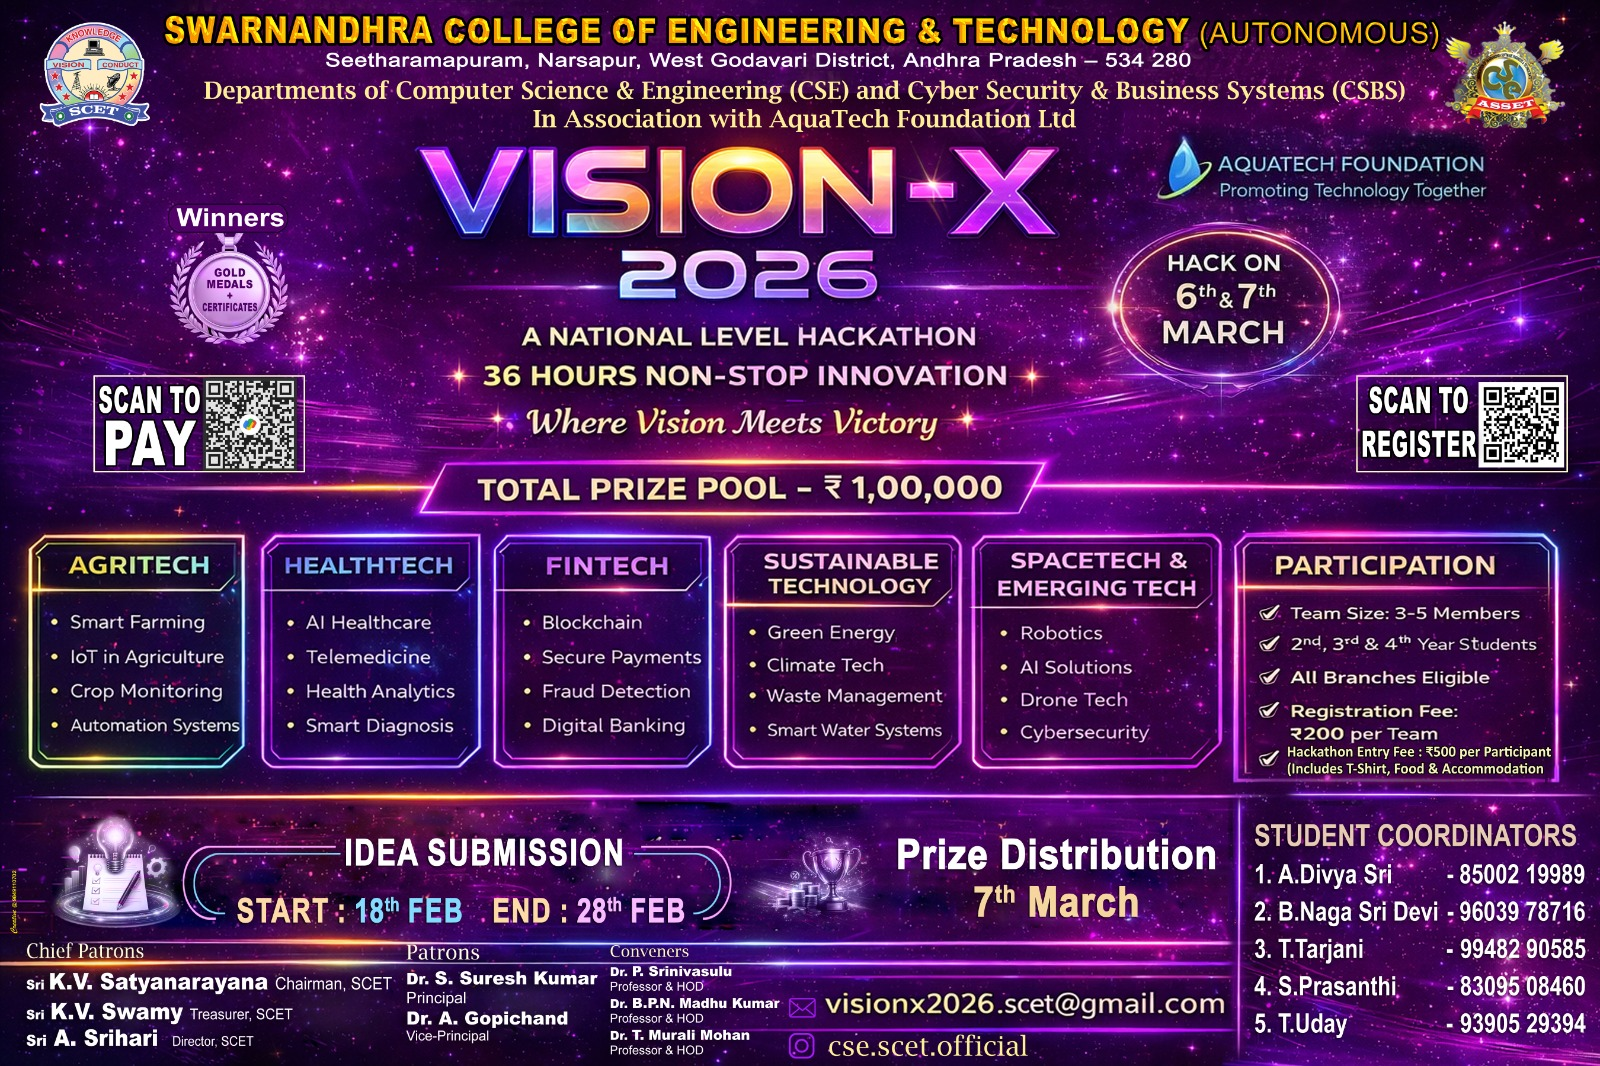
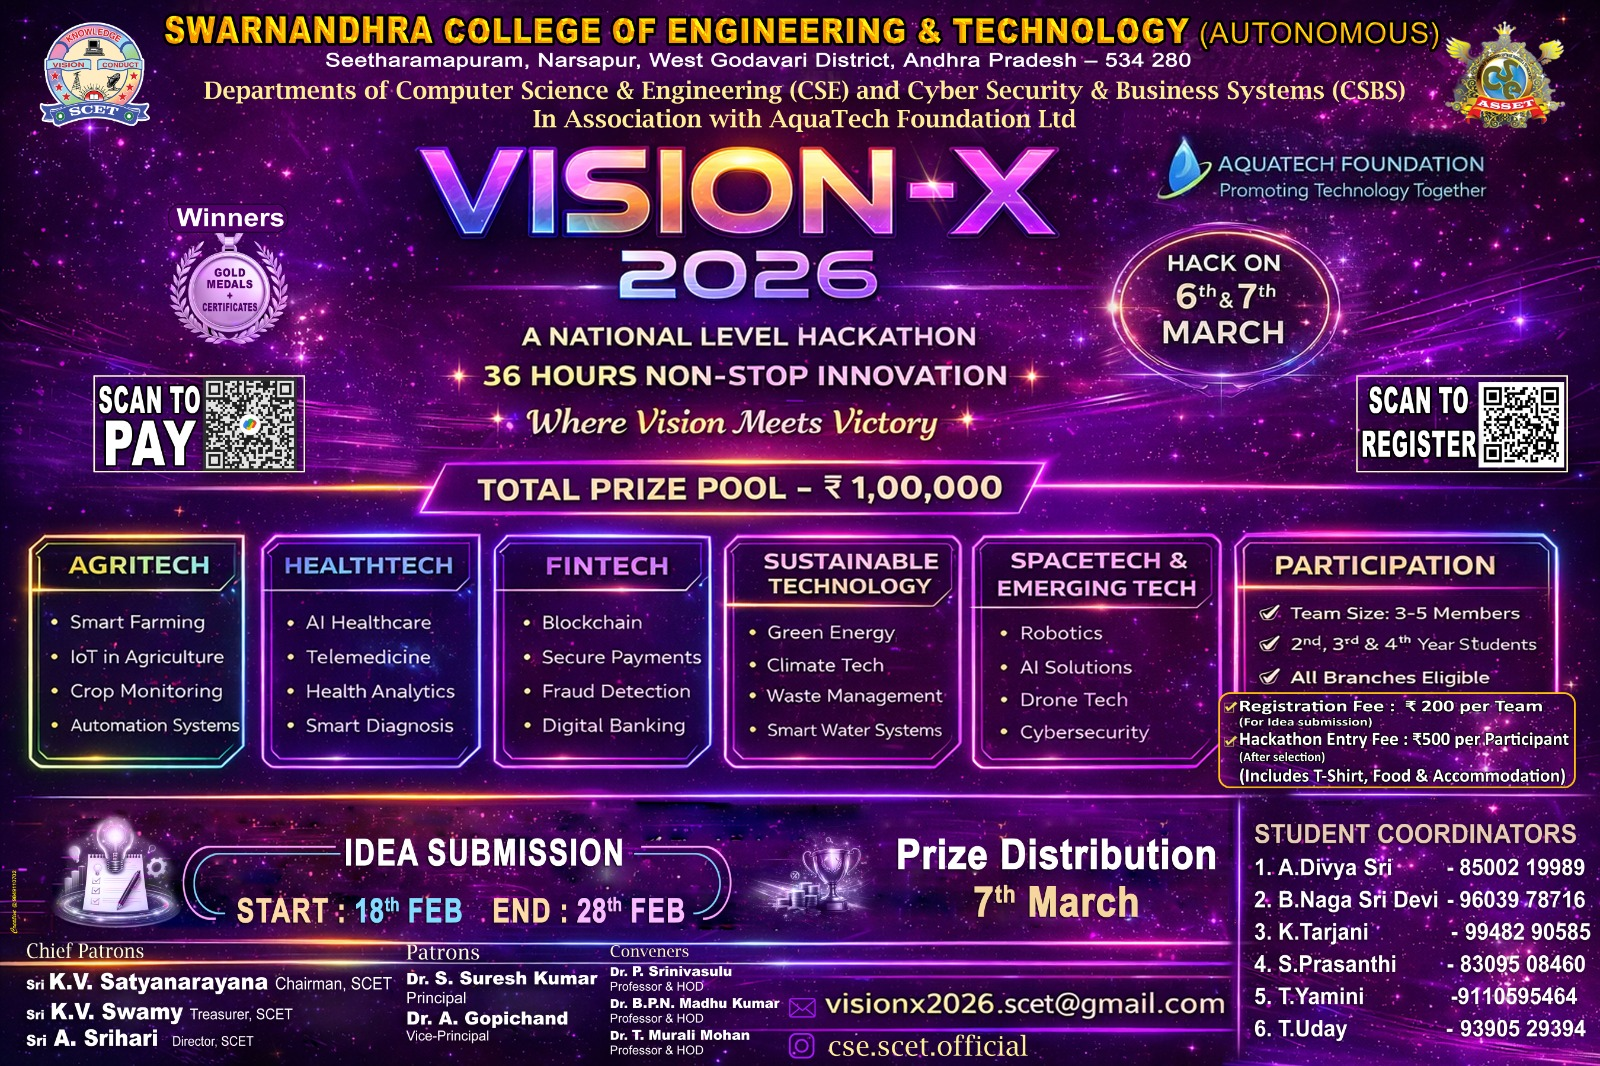
updated Chief patrons and added student co ordinator and updated brochore

Changed region(s): [[0.7812, 0.7739, 1.0, 0.9906], [0.75, 0.6501, 1.0, 0.743]]

diff --git a/src/components/ChiefGuestsSection.tsx b/src/components/ChiefGuestsSection.tsx
@@ -6,12 +6,13 @@ import asrihari from "./guests/a-srihari.jpg";
 import sureshKumar from "./guests/suresh-kumar.jpg";
 import aGopichand from "./guests/a-gopichand.jpg";
 import pSrinivasulu from "./guests/p-srinivasulu.jpg";
+import minish from "./guests/minish.jpg";
 
-const chiefGuest = {
-  name: "Prof. CSRK Prasad",
-  title: "Hon'ble Vice Chancellor, JNTUK, Kakinada",
-  image: profCsrkPrasad,
-};
+// const chiefGuest = {
+//   name: "Prof. CSRK Prasad",
+//   title: "Hon'ble Vice Chancellor, JNTUK, Kakinada",
+//   image: profCsrkPrasad,
+// };
 
 const chiefPatrons = [
   {
@@ -28,6 +29,12 @@ const chiefPatrons = [
     name: "Sri A Srihari",
     role: "Director, SCET",
     image: asrihari,
+  },
+  {
+    name: "Minish Kumar Mucharla",
+    role: "Aqua Tech Foundation",
+    image: minish,
+    topLabel: "Aqua Tech Foundation",
   },
 ];
 
@@ -51,16 +58,27 @@ const PersonCard = ({
   image,
   glow = "neon-border",
   size = "w-24 h-24",
+  topLabel,
 }: {
   name: string;
   role: string;
   image: string;
   glow?: string;
   size?: string;
+  topLabel?: string;
 }) => (
   <div className="flex flex-col items-center max-w-[200px]">
+    {/* ✅ Label ABOVE image (normal flow, no absolute) */}
+    <div className="h-5 mb-2 flex items-center justify-center">
+      {topLabel && (
+        <p className="text-[11px] font-semibold text-cyan-400 text-center">
+          {topLabel}
+        </p>
+      )}
+    </div>
     <div
       className={`${size} rounded-full ${glow} bg-card/60 overflow-hidden mb-3`}
+      // className={`${size} relative rounded-full ${glow} bg-card/60 overflow-hidden mb-3`}
     >
       <img
         src={image}
@@ -85,11 +103,11 @@ const ChiefGuestsSection = () => (
         viewport={{ once: true }}
         className="text-3xl md:text-4xl font-display font-bold gradient-text mb-12"
       >
-        Chief Guest
+        Guests
       </motion.h2>
 
       {/* Chief Guest */}
-      <motion.div
+      {/* <motion.div
         initial={{ opacity: 0, scale: 0.9 }}
         whileInView={{ opacity: 1, scale: 1 }}
         viewport={{ once: true }}
@@ -107,7 +125,7 @@ const ChiefGuestsSection = () => (
             size="w-32 h-32"
           />
         </div>
-      </motion.div>
+      </motion.div> */}
 
       {/* Patrons */}
       <motion.div
@@ -128,6 +146,7 @@ const ChiefGuestsSection = () => (
               role={p.role}
               image={p.image}
               glow="neon-border-purple"
+              topLabel={p.topLabel}
             />
           ))}
         </div>

diff --git a/src/components/CoordinatorsSection.tsx b/src/components/CoordinatorsSection.tsx
@@ -6,6 +6,7 @@ const studentCoordinators = [
   { name: "B. Naga Sri Devi", phone: "9603978716" },
   { name: "S. Prasanthi", phone: "8309508460" },
   { name: "T. Uday", phone: "9390529394" },
+  { name: "T. Yamini", phone: "9110595464" },
   { name: "K. Tarjani", phone: "9948290585" },
 ];
 
@@ -108,7 +109,7 @@ const CoordinatorsSection = () => (
           Student Coordinators
         </p>
 
-        <div className="grid grid-cols-2 sm:grid-cols-3 md:grid-cols-5 gap-6">
+        <div className="grid grid-cols-2 sm:grid-cols-3 md:grid-cols-6 gap-6">
           {studentCoordinators.map((c, i) => (
             <motion.div
               key={c.name}

diff --git a/src/components/RegistrationSection.tsx b/src/components/RegistrationSection.tsx
@@ -39,7 +39,7 @@ const RegistrationSection = () => (
             Hackathon Entry
           </p>
           <p className="text-2xl font-display font-bold text-secondary text-glow-purple">
-            ₹300{" "}
+            ₹500{" "}
             <span className="text-sm font-heading text-muted-foreground font-normal">
               per head
             </span>

diff --git a/index.html b/index.html
@@ -47,7 +47,7 @@
     <!-- Replace with your banner -->
 
     <!-- Favicon (Optional but Recommended) -->
-    <link rel="icon" type="image/png" href="./public/scet-logo.jpg" />
+    <link rel="icon" type="image/png" href="/scet-logo.jpg" />
   </head>
 
   <body>
